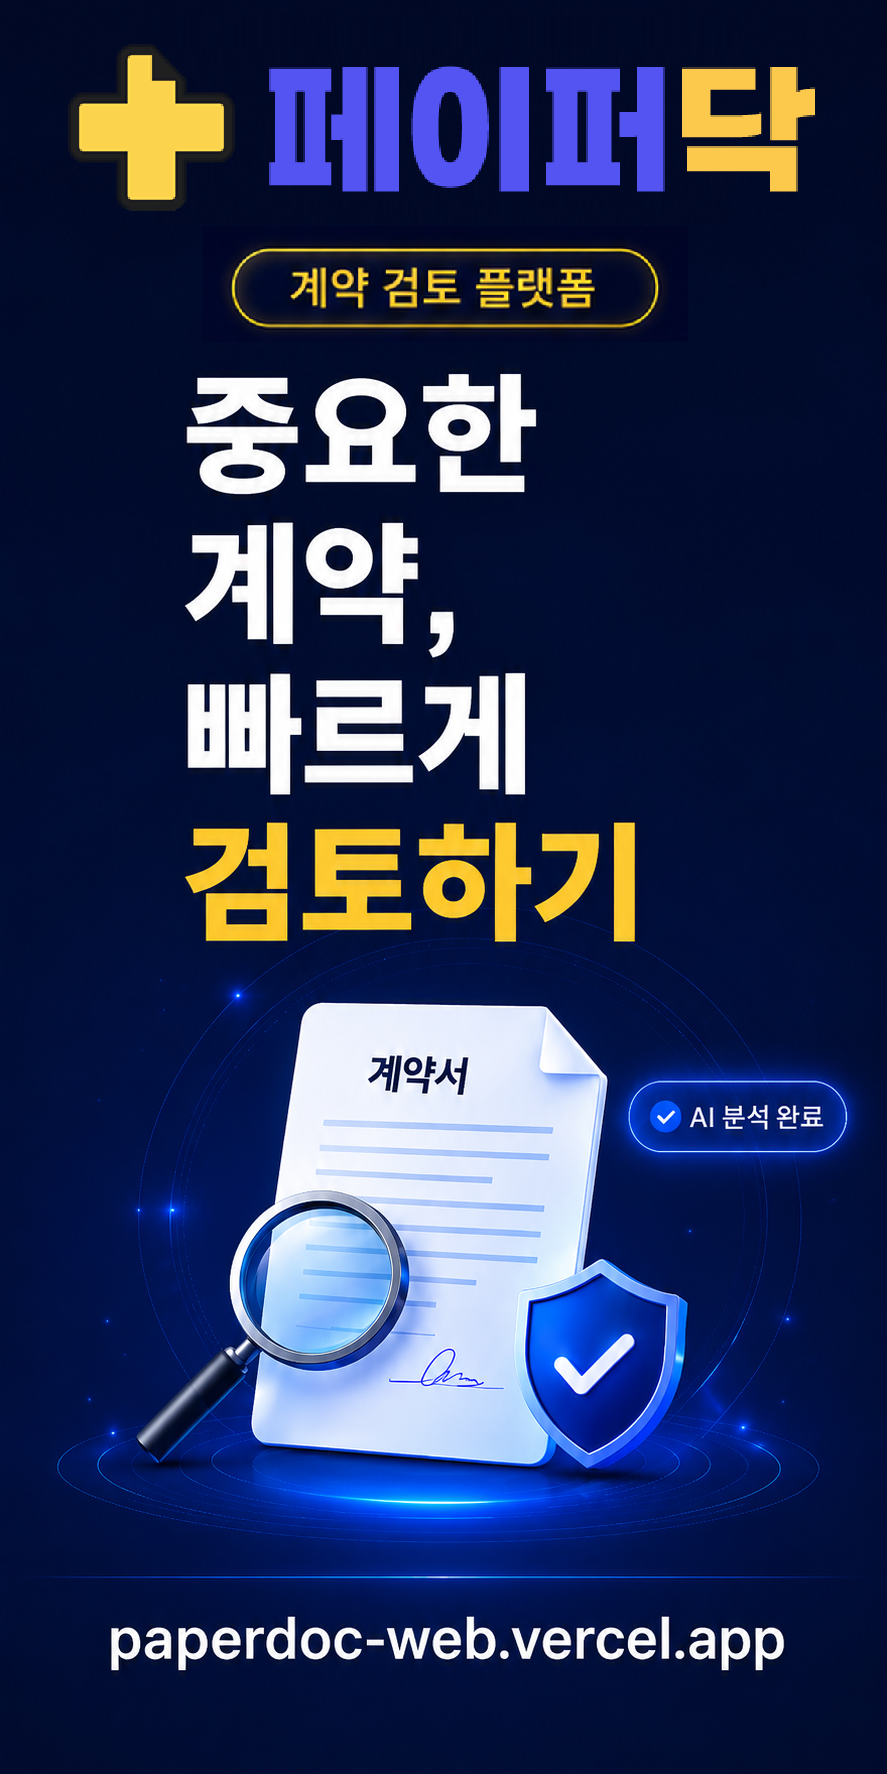
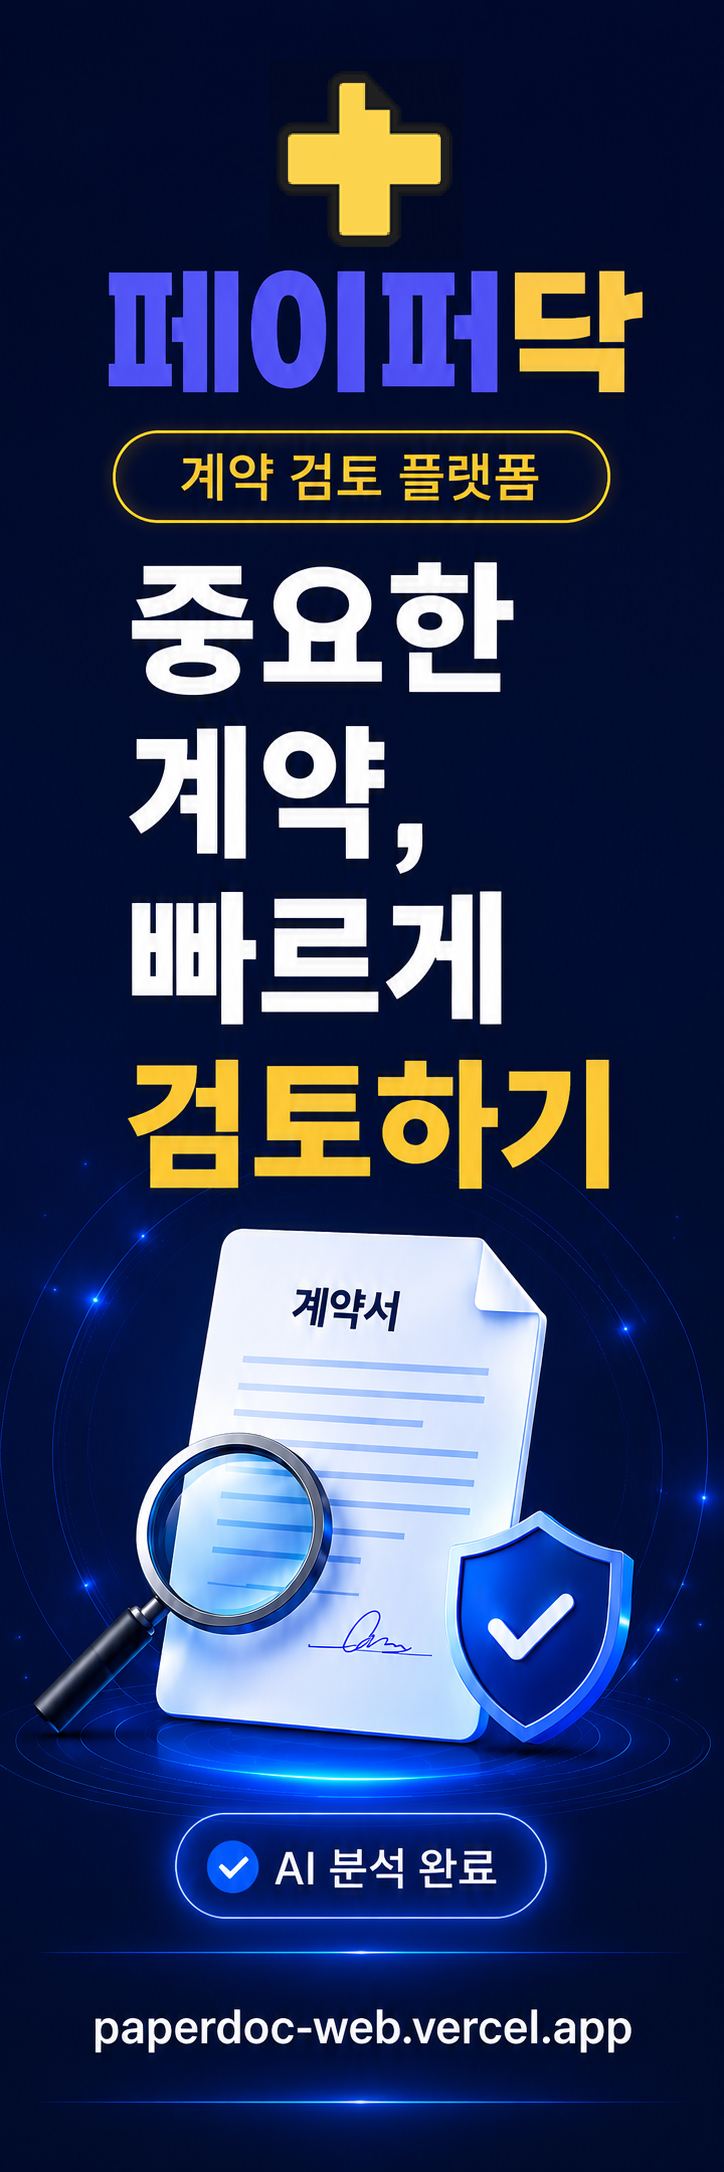
fix: 사이드 배너 본문 가까이 배치 + 배너 이미지 재적용(724x2172)
- 배너 이미지 재적용: Downloads/banner_v.png 갱신본(724x2172, 더 세로형)
  → public/pd-side.png. img width/height·폭 clamp 새 비율에 맞춤.
- 위치: 포스트 본문(820px)이 좁아 1080 기준 배너가 멀어 보이던 문제 →
  body:has(.blog-post)에서 820 본문 우측 12px 가까이 배치. 홈(1080)은 24px
  여유로 기존 유지(비침범). 목차는 좌측이라 무충돌.

검증: post@1500 본문-배너 gap 12px·이미지 natural 724, home@1500 gap 24px.

diff --git a/src/styles/global.css b/src/styles/global.css
@@ -4555,3 +4555,10 @@ body.list-open { overflow: hidden; }
 
 /* 사이드 배너는 표시 가능한 해상도(≥1200)에선 포스트 포함 항상 표시.
    목차(toc-sidebar)는 사이드 배너와 겹치지 않도록 더 넓은 폭에서만·왼쪽에 배치(아래 재정의). */
+
+/* 포스트 페이지: 본문(820px)이 좁아 사이드 배너가 멀어 보임 → 본문 우측 가까이 배치 */
+@media (min-width: 1200px) {
+  body:has(.blog-post) .pd-side {
+    right: max(12px, calc((100vw - 820px) / 2 - 178px));
+  }
+}
